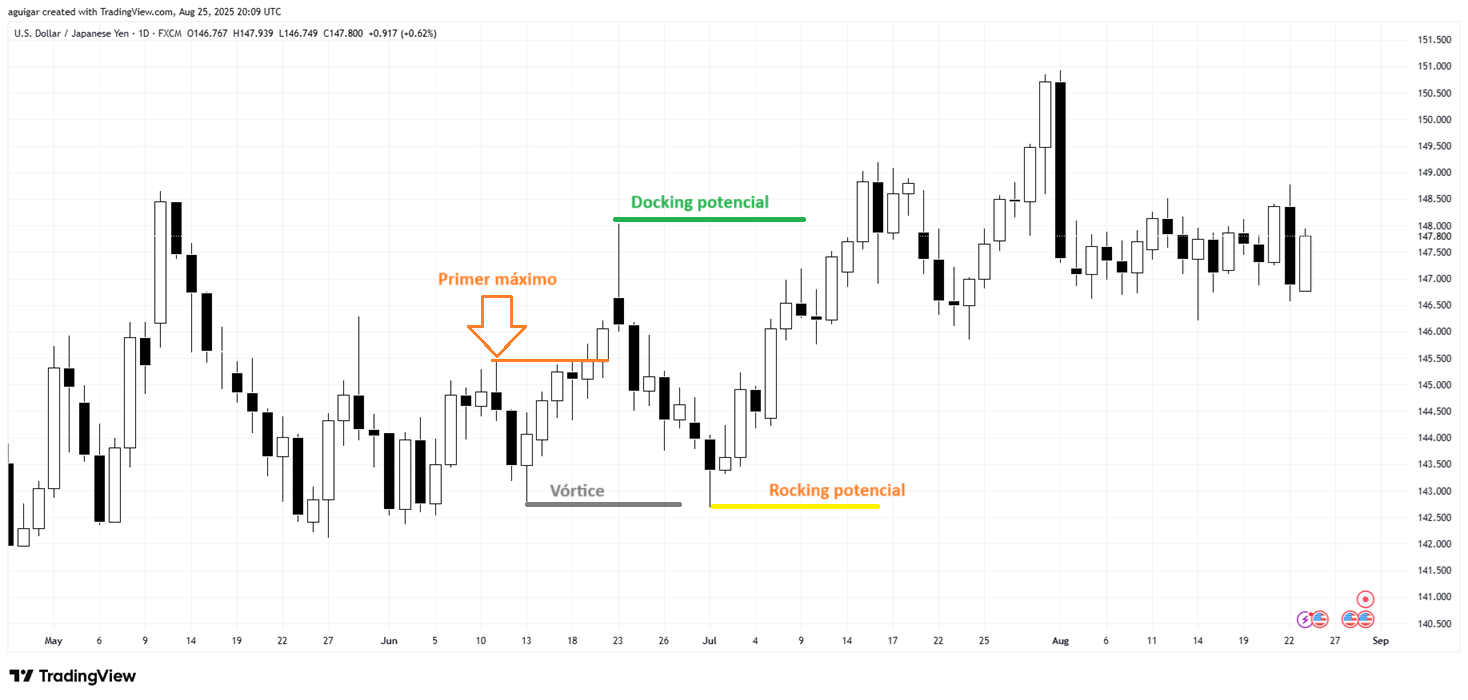
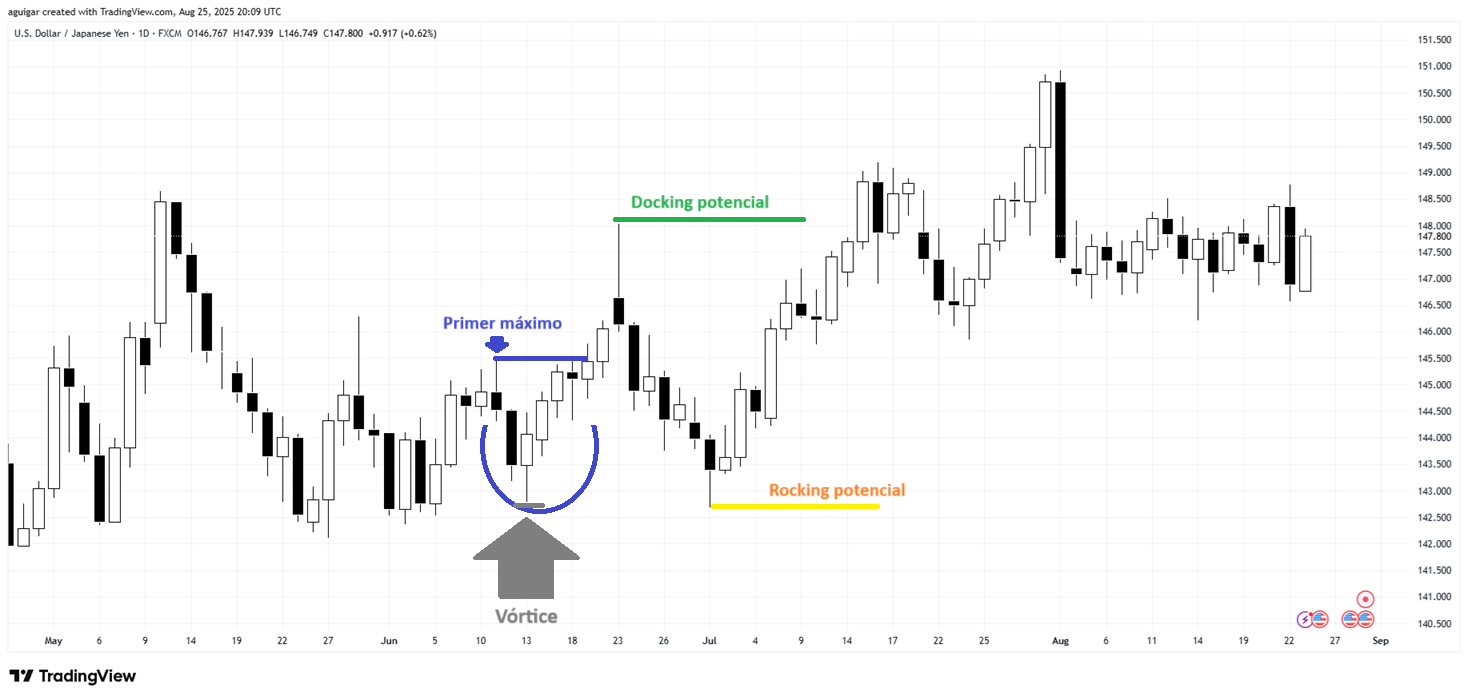
Add files via upload

Changed region(s): [[0.3065, 0.63, 0.4598, 0.9], [0.3065, 0.39, 0.3985, 0.54], [0.3065, 0.63, 0.3372, 0.69]]

diff --git a/captions.es.bull.js b/captions.es.bull.js
@@ -1,9 +1,9 @@
 // captions.es.bull.js — captions por imagen (alcista)
 export const CAPTIONS_ES_BULL = {
   1: ["_"],
-  2: ["Marcamos Docking y Rocking", "Ojo, para que sea válido tiene que haber un mínimo de 5 velas entre el docking y el rocking"],
-  3: ["Marcamos el vórtice", "Ojo, cuidar que la mecha de la parte superior del vórtice no sea más alta que el máximo (este punto lo tengo que afinar bien, por que no estoy seguro cómo es)"],
+  2: ["Marcamos Docking y Rocking", "Ojo, para que sea válido tiene que haber un mínimo de 5 velas entre el docking y el rocking"], //paso 2.png y paso 2b.png
+  3: ["Marcamos el vórtice", "Validar que el vórtice no traspase el nivel del rocking. (Acá tengo una duda, si lo traspasa, ¿puede seguir buscandose un vórtice anterior?)", "También: Ojo, cuidar que la mecha de la parte superior del vórtice no sea más alta que el máximo (este punto lo tengo que afinar bien, por que no estoy seguro cómo es)"],
   4: ["Marcamos el primer máximo", "_"],
-  5: ["Localizar el origen del impulso", "_"],
+  5: ["Localizar el origen del impulso", "Validar que sea más bajo que el vórtice", "_"],
   6: ["_"]
 };

diff --git a/images.bull.js b/images.bull.js
@@ -4,6 +4,6 @@ export const STEP_IMAGES_BULL = {
   2: ["paso 2.png", "paso 2 b.png"],
   3: ["paso 3.png", "paso 3 b.png"],
   4: ["paso 4.png", "paso 4 b.png"],
-  5: ["paso 5.png", "paso 5 b.png"],
+  5: ["paso 5.png", "paso 5 b.png", "paso 5 b.png"],
   6: ["fractal alcista resuelto.png"],  
 };
